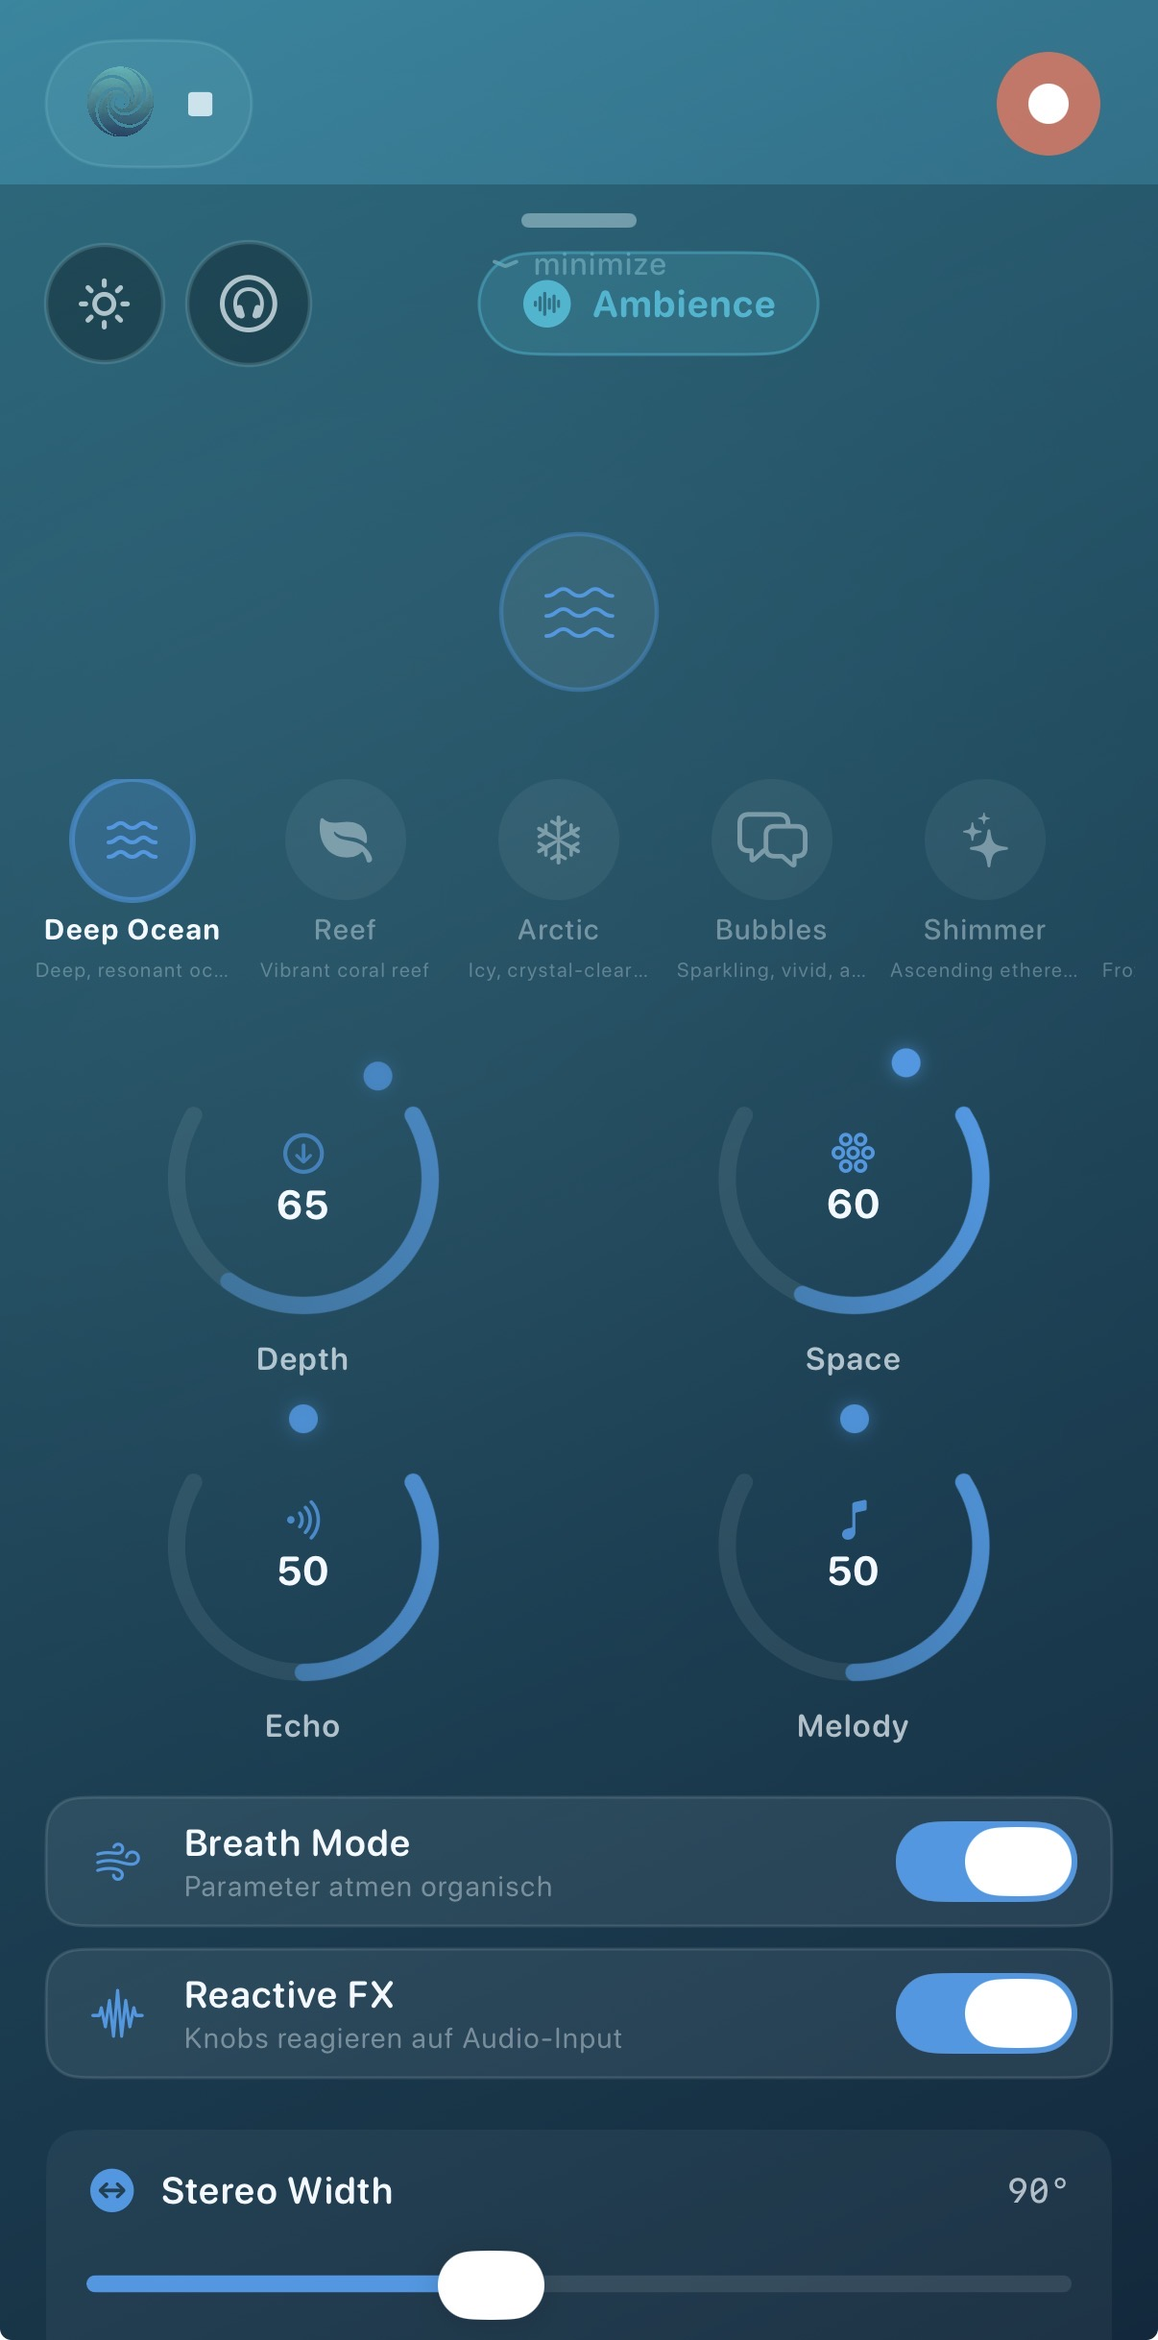
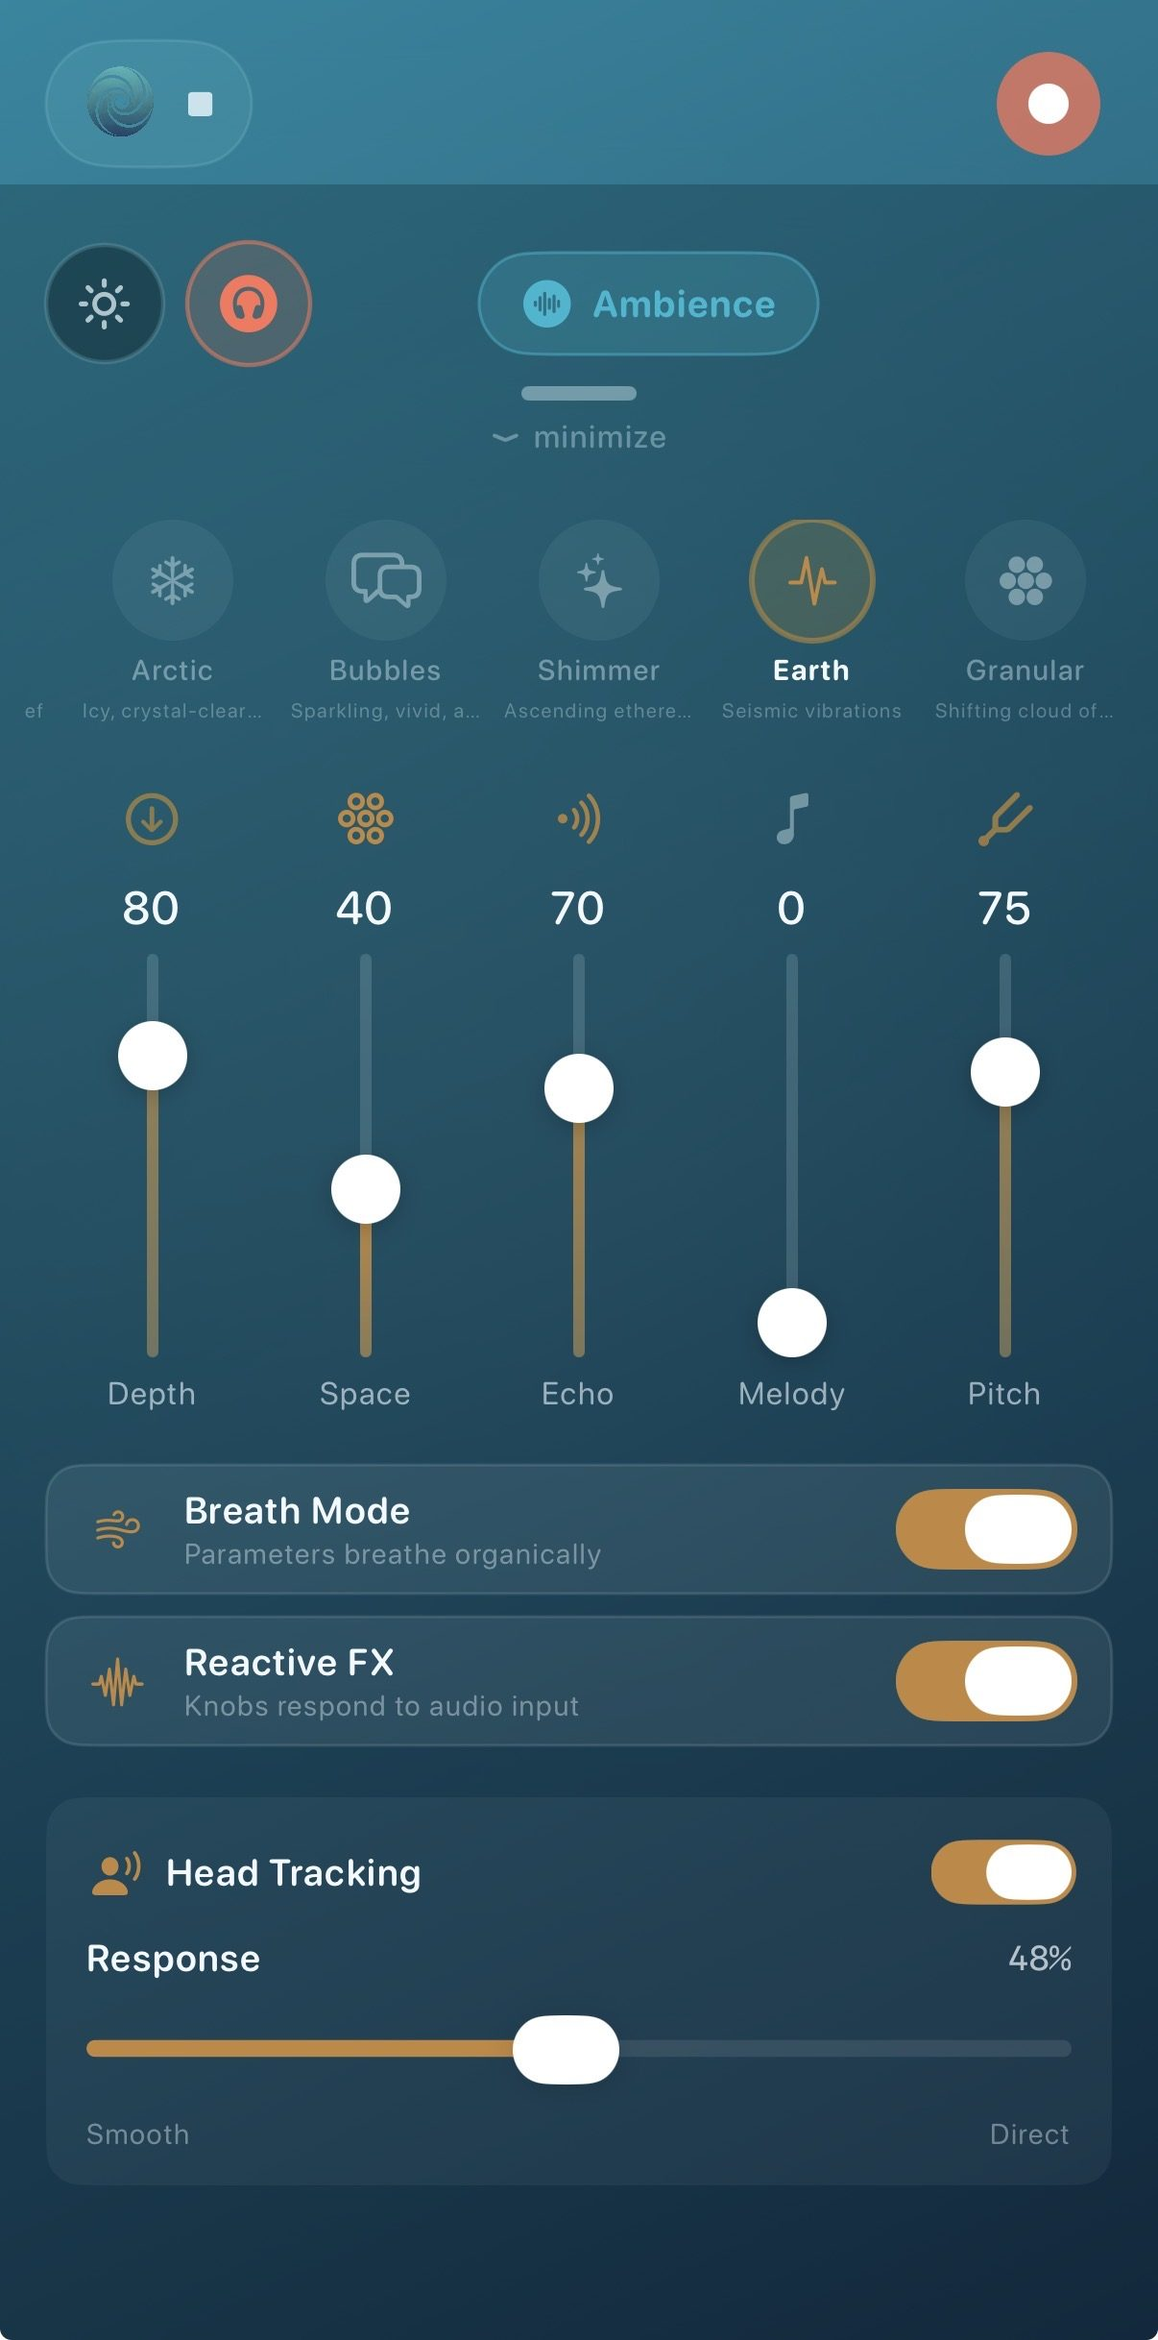
Add app-screens carousel, refresh screenshots, fix sitemap
New #app section between Ambience and Specs: a carousel through the
three features the site never mentioned — sound meter, share clip and
library. Crossfade in a single fixed-ratio frame, driven by arrows,
dots, arrow keys and axis-locked swipe. No autoplay.

Screenshots refreshed from the current app build. The German-language
Spatial Render shot is gone from Record; the English Start Recording
screen takes its place, and the sound meter joins Connected in Live.

Copy follows the screens: Live gains a metering line, Record swaps
"Stereo width control" for "Noise reduction" (the app no longer shows
that slider), Specs gains Metering/Share/Library rows and finally
admits WAV alongside AAC. The FAQ no longer claims a hydrophone kit is
required — the meter, library and sharing run on the phone alone,
which support.html has said all along.

sitemap.xml pointed at soundscapes.html and specs.html, both 404, and
omitted support.html and terms.html, both live.

Verified in Chromium at 390/768/1440: reveal fires, slides share one
layout box, the Live pair is level to the pixel, wrap-around works
both ways, no layout shift, no console errors.

diff --git a/index.html b/index.html
@@ -4,17 +4,17 @@
 <meta charset="UTF-8">
 <meta name="viewport" content="width=device-width, initial-scale=1.0">
 <title>OceanEar, Your Ears in the Ocean</title>
-<meta name="description" content="OceanEar turns ocean sound into spatial 3D experiences. Live hydrophone listening with HRTF spatial audio, head-tracking, and immersive binaural recordings on your iPhone.">
+<meta name="description" content="OceanEar turns ocean sound into spatial 3D audio on iPhone. Live hydrophone listening, binaural recording, sound meter, library and one-tap clip sharing.">
 <meta property="og:type" content="website">
 <meta property="og:url" content="https://oceanear.co.nz/">
 <meta property="og:title" content="OceanEar, Your Ears in the Ocean">
-<meta property="og:description" content="Hear the ocean in real 3D audio. Hydrophone-based spatial listening on iPhone. Made in Wellington, New Zealand.">
+<meta property="og:description" content="Hear the ocean in real 3D audio. Hydrophone-based spatial listening, metering and recording on iPhone. Made in Wellington, New Zealand.">
 <meta property="og:image" content="https://oceanear.co.nz/assets/og-image.jpg">
 <meta property="og:image:width" content="1200">
 <meta property="og:image:height" content="630">
 <meta name="twitter:card" content="summary_large_image">
 <meta name="twitter:title" content="OceanEar, Your Ears in the Ocean">
-<meta name="twitter:description" content="Hear the ocean in real 3D audio. Hydrophone-based spatial listening on iPhone.">
+<meta name="twitter:description" content="Hear the ocean in real 3D audio. Spatial listening, metering and binaural recording on iPhone.">
 <meta name="twitter:image" content="https://oceanear.co.nz/assets/og-image.jpg">
 <link rel="canonical" href="https://oceanear.co.nz/">
 <script type="application/ld+json">
@@ -24,7 +24,7 @@
   "name": "OceanEar",
   "url": "https://oceanear.co.nz/",
   "logo": "https://oceanear.co.nz/assets/og-image.jpg",
-  "description": "Hydrophone-based spatial audio experiences. Live underwater listening with HRTF 3D audio on your iPhone. Made in Wellington, New Zealand.",
+  "description": "Hydrophone-based spatial audio experiences. Live underwater listening with HRTF 3D audio, metering, recording and sharing on your iPhone. Made in Wellington, New Zealand.",
   "founder": {
     "@type": "Person",
     "name": "Sebastian Voss",
@@ -65,7 +65,7 @@
       "name": "What equipment do I need?",
       "acceptedAnswer": {
         "@type": "Answer",
-        "text": "You need an OceanEar hydrophone kit (includes hydrophone, USB-C cable, and app) and an iPhone with Bluetooth earbuds for the spatial audio experience."
+        "text": "The OceanEar app works on its own with the iPhone's built-in microphone, including the sound meter, the library and clip sharing. For underwater listening you need an OceanEar hydrophone kit (hydrophone, USB-C cable and app), plus Bluetooth earbuds for the spatial audio experience."
       }
     },
     {
@@ -485,6 +485,99 @@ nav a.cta:hover{transform:translateY(-1px);box-shadow:0 0 0 1px rgba(244,123,98,
 }
 @media(min-width:1300px){.dual{gap:2rem}.dual .app-shot{max-width:300px}}
 
+/* Keep the Live pair level: screen-home is 1206x2454, the meter 1171x2350 */
+.dual .app-shot{aspect-ratio:1206/2436}
+.dual .app-shot img{height:100%;object-fit:cover}
+
+/* ==========================================================================
+   APP SHOTS — carousel
+   ========================================================================== */
+.shots{max-width:760px;margin:0 auto}
+.shots-box{display:flex;flex-direction:column;align-items:center}
+
+/* One frame the screens swap inside, not three stacked .app-shot */
+.shots-stage{
+  position:relative;
+  width:100%;max-width:320px;
+  aspect-ratio:1206/2436;
+  display:grid;
+  border:3px solid rgba(76,193,212,.28);
+  border-radius:38px;
+  overflow:hidden;
+  box-shadow:0 40px 100px rgba(0,0,0,.55);
+  background:#0d3d4f;
+  touch-action:pan-y;
+}
+@media(min-width:1024px){.shots-stage{max-width:340px}}
+@media(min-width:1300px){.shots-stage{max-width:380px}}
+
+.shots-img{
+  grid-area:1/1;
+  width:100%;height:100%;
+  object-fit:cover;display:block;
+  opacity:0;transform:scale(1.015);
+  transition:opacity .45s var(--ease),transform .45s var(--ease);
+}
+.shots-img.on{opacity:1;transform:none}
+
+/* Captions share one grid cell, so the wrapper is as tall as the longest */
+.shots-caps{
+  display:grid;
+  width:100%;max-width:46ch;
+  margin:1.5rem auto 0;
+  text-align:center;
+}
+.shots-cap{
+  grid-area:1/1;
+  opacity:0;transform:translateY(6px);
+  transition:opacity .45s var(--ease),transform .45s var(--ease);
+  pointer-events:none;
+}
+.shots-cap.on{opacity:1;transform:none;pointer-events:auto}
+.shots-kicker{
+  display:block;margin-bottom:.5rem;
+  font-family:var(--f-mono);font-size:.66rem;
+  letter-spacing:.18em;text-transform:uppercase;
+  color:var(--c-cyan);
+}
+.shots-cap h3{font-size:1.2rem;letter-spacing:-.025em;margin-bottom:.45rem}
+.shots-cap p{color:var(--c-text-soft);font-size:.95rem;line-height:1.6}
+
+.shots-ctrl{display:flex;align-items:center;justify-content:center;gap:1.1rem;margin-top:1.5rem}
+.shots-arrow{
+  width:42px;height:42px;flex-shrink:0;
+  display:flex;align-items:center;justify-content:center;
+  background:var(--c-glass);
+  border:1px solid var(--c-line);
+  border-radius:var(--r-pill);
+  color:var(--c-cyan);cursor:pointer;
+  font-family:inherit;
+  transition:background .25s var(--ease),border-color .25s var(--ease),transform .25s var(--ease);
+}
+.shots-arrow:hover{background:rgba(76,193,212,.12);border-color:rgba(76,193,212,.35);transform:translateY(-1px)}
+.shots-tabs{display:flex;align-items:center;gap:9px}
+.shots-tab{
+  position:relative;
+  width:8px;height:8px;padding:0;
+  background:rgba(76,193,212,.22);
+  border:1px solid transparent;border-radius:50%;
+  cursor:pointer;
+  transition:background .25s var(--ease),width .25s var(--ease),box-shadow .25s var(--ease);
+}
+.shots-tab::after{content:'';position:absolute;inset:-11px}
+.shots-tab[aria-current="true"]{
+  width:22px;border-radius:var(--r-pill);
+  background:var(--c-cyan);
+  box-shadow:0 0 12px rgba(76,193,212,.45);
+}
+.shots-stage:focus-visible,
+.shots-arrow:focus-visible,
+.shots-tab:focus-visible{outline:2px solid var(--c-cyan);outline-offset:4px}
+
+@media(prefers-reduced-motion:reduce){
+  .shots-img,.shots-cap{transition-duration:.01ms}
+}
+
 /* ==========================================================================
    SPECS
    ========================================================================== */
@@ -754,17 +847,17 @@ footer .logo{font-size:1rem}
       <div class="section-text reveal">
         <span class="eyebrow">Live</span>
         <h2>Real-time.<br>Real <span>direction.</span></h2>
-        <p class="lede">Live hydrophone audio, binaural-rendered in real time. Head-tracked, so the source stays put when you move.</p>
+        <p class="lede">Live hydrophone audio, binaural-rendered in real time. Head-tracked, so the source stays put when you move. Levels on screen while you listen.</p>
         <div class="pills">
           <span class="pill">Live monitoring</span>
           <span class="pill coral">Head-tracked</span>
-          <span class="pill">2-channel stereo</span>
+          <span class="pill">Sound meter</span>
         </div>
       </div>
       <div class="reveal reveal-2">
         <div class="dual">
-          <div class="app-shot"><img src="screen-home.jpg" alt="Connected" loading="lazy"></div>
-          <div class="app-shot"><img src="screen-live.jpg" alt="Live" loading="lazy"></div>
+          <div class="app-shot"><img src="screen-home.jpg" alt="Connected, with the library one tap away" loading="lazy"></div>
+          <div class="app-shot"><img src="screen-meter.jpg" alt="Live sound meter with spectrum and peak hold" loading="lazy"></div>
         </div>
       </div>
     </div>
@@ -780,13 +873,13 @@ footer .logo{font-size:1rem}
         <h2>Record it. Export it.<br>Drop it in your <span>DAW.</span></h2>
         <p class="lede">Raw stereo or binaural render. WAV or AAC. GPS, timestamp and notes baked into every file. No conversion, no plugins, no laptop on the boat.</p>
         <div class="pills">
-          <span class="pill">AAC export</span>
+          <span class="pill">WAV or AAC</span>
           <span class="pill coral">GPS metadata</span>
-          <span class="pill">Stereo width control</span>
+          <span class="pill">Noise reduction</span>
         </div>
       </div>
       <div class="reveal reveal-2">
-        <div class="app-shot"><img src="screen-spatial.jpg" alt="Spatial Render" loading="lazy"></div>
+        <div class="app-shot"><img src="screen-live.jpg" alt="Start Recording, with noise reduction on and the live spectrogram running" loading="lazy"></div>
       </div>
     </div>
   </section>
@@ -808,6 +901,71 @@ footer .logo{font-size:1rem}
   </section>
 
   <!-- ==================================================================
+       APP SHOTS (carousel)
+       ================================================================== -->
+  <section class="section" id="app">
+    <div class="shots">
+      <div class="reveal" style="text-align:center;margin-bottom:2.5rem">
+        <span class="eyebrow">Inside</span>
+        <h2 style="font-size:clamp(2rem,4.5vw,3rem)">Measure it. Share it.<br>Find it <span style="color:var(--c-cyan)">again.</span></h2>
+        <p class="lede" style="margin:1rem auto 0">The rest of the app, in three screens. Everything local, everything private.</p>
+        <div class="pills" style="justify-content:center;margin-top:1.6rem">
+          <span class="pill">Sound meter</span>
+          <span class="pill coral">One-tap share</span>
+          <span class="pill">Searchable library</span>
+        </div>
+      </div>
+
+      <div class="shots-box reveal reveal-2" id="shotsBox">
+        <div class="shots-stage" id="shotsStage" tabindex="0"
+             role="group" aria-roledescription="carousel" aria-label="OceanEar app screens">
+          <img class="shots-img on" src="screen-meter.jpg" width="900" height="1806"
+               alt="Sound meter screen: live spectrum with peak hold, and peak, RMS and crest values in dBFS"
+               loading="lazy" decoding="async" aria-hidden="false">
+          <img class="shots-img" src="screen-share.jpg" width="900" height="1818"
+               alt="Share screen: a coastal photo above a live spectrogram, with 15 second story and binaural video options"
+               loading="lazy" decoding="async" aria-hidden="true">
+          <img class="shots-img" src="screen-library.jpg" width="900" height="1818"
+               alt="Library screen: recordings list with search, favourites, storage total and GPS metadata badges"
+               loading="lazy" decoding="async" aria-hidden="true">
+        </div>
+
+        <div class="shots-caps" aria-live="polite">
+          <div class="shots-cap on" aria-hidden="false">
+            <span class="shots-kicker">Sound meter</span>
+            <h3>Levels, not guesswork.</h3>
+            <p>Peak, RMS and crest, live. Spectrum from 100&nbsp;Hz to 10&nbsp;kHz with peak hold. Simple for a number, Pro for the whole picture. dBFS, uncalibrated &mdash; relative, not SPL.</p>
+          </div>
+          <div class="shots-cap" aria-hidden="true">
+            <span class="shots-kicker">Share clip</span>
+            <h3>One tap to a post.</h3>
+            <p>A 15-second story with the screen and the audio. Or a binaural video, camera and HRTF audio together. Location stamped on, straight to your camera roll. No editor, no export dance.</p>
+          </div>
+          <div class="shots-cap" aria-hidden="true">
+            <span class="shots-kicker">Library</span>
+            <h3>Every take, still findable.</h3>
+            <p>Search by name, location or date. Favourites, GPS and metadata on every file. Storage at a glance. iCloud keeps them when your phone doesn&rsquo;t.</p>
+          </div>
+        </div>
+
+        <div class="shots-ctrl">
+          <button type="button" class="shots-arrow" data-shots-dir="-1" aria-label="Previous screen">
+            <svg width="16" height="16" viewBox="0 0 24 24" fill="none" aria-hidden="true"><path d="M15 5l-7 7 7 7" stroke="currentColor" stroke-width="2.5" stroke-linecap="round" stroke-linejoin="round"/></svg>
+          </button>
+          <div class="shots-tabs">
+            <button type="button" class="shots-tab" aria-current="true" aria-label="Show sound meter"></button>
+            <button type="button" class="shots-tab" aria-label="Show share clip"></button>
+            <button type="button" class="shots-tab" aria-label="Show library"></button>
+          </div>
+          <button type="button" class="shots-arrow" data-shots-dir="1" aria-label="Next screen">
+            <svg width="16" height="16" viewBox="0 0 24 24" fill="none" aria-hidden="true"><path d="M9 5l7 7-7 7" stroke="currentColor" stroke-width="2.5" stroke-linecap="round" stroke-linejoin="round"/></svg>
+          </button>
+        </div>
+      </div>
+    </div>
+  </section>
+
+  <!-- ==================================================================
        SPECS
        ================================================================== -->
   <section class="section" id="specs">
@@ -822,11 +980,14 @@ footer .logo{font-size:1rem}
           <tbody>
             <tr><td>Phone</td><td>iPhone 12 or later &middot; iOS 17+</td></tr>
             <tr><td>Connection</td><td>USB-C, class compliant</td></tr>
-            <tr><td>Recording</td><td>AAC (M4A container)</td></tr>
+            <tr><td>Recording</td><td>WAV or AAC (M4A container)</td></tr>
             <tr><td>Sample rate</td><td>48 kHz</td></tr>
             <tr><td>Channels</td><td>2-channel stereo</td></tr>
             <tr><td>Spatial</td><td>Binaural render with head-tracking</td></tr>
             <tr><td>Metadata</td><td>GPS, timestamp, notes per file</td></tr>
+            <tr><td>Metering</td><td>Peak, RMS, crest &middot; dBFS, uncalibrated</td></tr>
+            <tr><td>Share</td><td>15s story or binaural video</td></tr>
+            <tr><td>Library</td><td>Search, favourites, storage overview &middot; iCloud backup</td></tr>
             <tr><td>Hydrophone spec</td><td>on request</td></tr>
           </tbody>
         </table>
@@ -1337,6 +1498,72 @@ footer .logo{font-size:1rem}
     drawAxis();
   }
   requestAnimationFrame(tick);
+})();
+
+/* ============================================================
+   APP SHOTS CAROUSEL
+   ============================================================ */
+(function(){
+  const box = document.getElementById('shotsBox');
+  if(!box) return;
+  const stage = document.getElementById('shotsStage');
+  const imgs  = Array.from(box.querySelectorAll('.shots-img'));
+  const caps  = Array.from(box.querySelectorAll('.shots-cap'));
+  const tabs  = Array.from(box.querySelectorAll('.shots-tab'));
+  if(!stage || imgs.length < 2) return;
+
+  let idx = imgs.findIndex(el => el.classList.contains('on'));
+  if(idx < 0) idx = 0;
+
+  function mark(list, n){
+    list.forEach((el, i) => {
+      el.classList.toggle('on', i === n);
+      el.setAttribute('aria-hidden', i === n ? 'false' : 'true');
+    });
+  }
+
+  function show(next){
+    const n = (next % imgs.length + imgs.length) % imgs.length;
+    if(n === idx) return;
+    idx = n;
+    mark(imgs, n);
+    mark(caps, n);
+    tabs.forEach((el, i) => {
+      if(i === n) el.setAttribute('aria-current', 'true');
+      else el.removeAttribute('aria-current');
+    });
+  }
+
+  box.querySelectorAll('[data-shots-dir]').forEach(btn => {
+    btn.addEventListener('click', () => show(idx + Number(btn.dataset.shotsDir)));
+  });
+  tabs.forEach((btn, i) => btn.addEventListener('click', () => show(i)));
+
+  box.addEventListener('keydown', e => {
+    if(e.key === 'ArrowRight'){ e.preventDefault(); show(idx + 1); }
+    else if(e.key === 'ArrowLeft'){ e.preventDefault(); show(idx - 1); }
+  });
+
+  /* Swipe, axis-locked so vertical scrolling is never stolen */
+  let x0 = null, y0 = 0, lock = null;
+  stage.addEventListener('touchstart', e => {
+    const t = e.changedTouches[0];
+    x0 = t.clientX; y0 = t.clientY; lock = null;
+  }, {passive:true});
+  stage.addEventListener('touchmove', e => {
+    if(x0 === null || lock) return;
+    const t = e.changedTouches[0];
+    const dx = t.clientX - x0, dy = t.clientY - y0;
+    if(Math.abs(dx) > 10 || Math.abs(dy) > 10){
+      lock = Math.abs(dx) > Math.abs(dy) ? 'x' : 'y';
+    }
+  }, {passive:true});
+  stage.addEventListener('touchend', e => {
+    if(x0 === null) return;
+    const dx = e.changedTouches[0].clientX - x0;
+    if(lock === 'x' && Math.abs(dx) > 45) show(idx + (dx < 0 ? 1 : -1));
+    x0 = null; lock = null;
+  }, {passive:true});
 })();
 
 /* ============================================================
